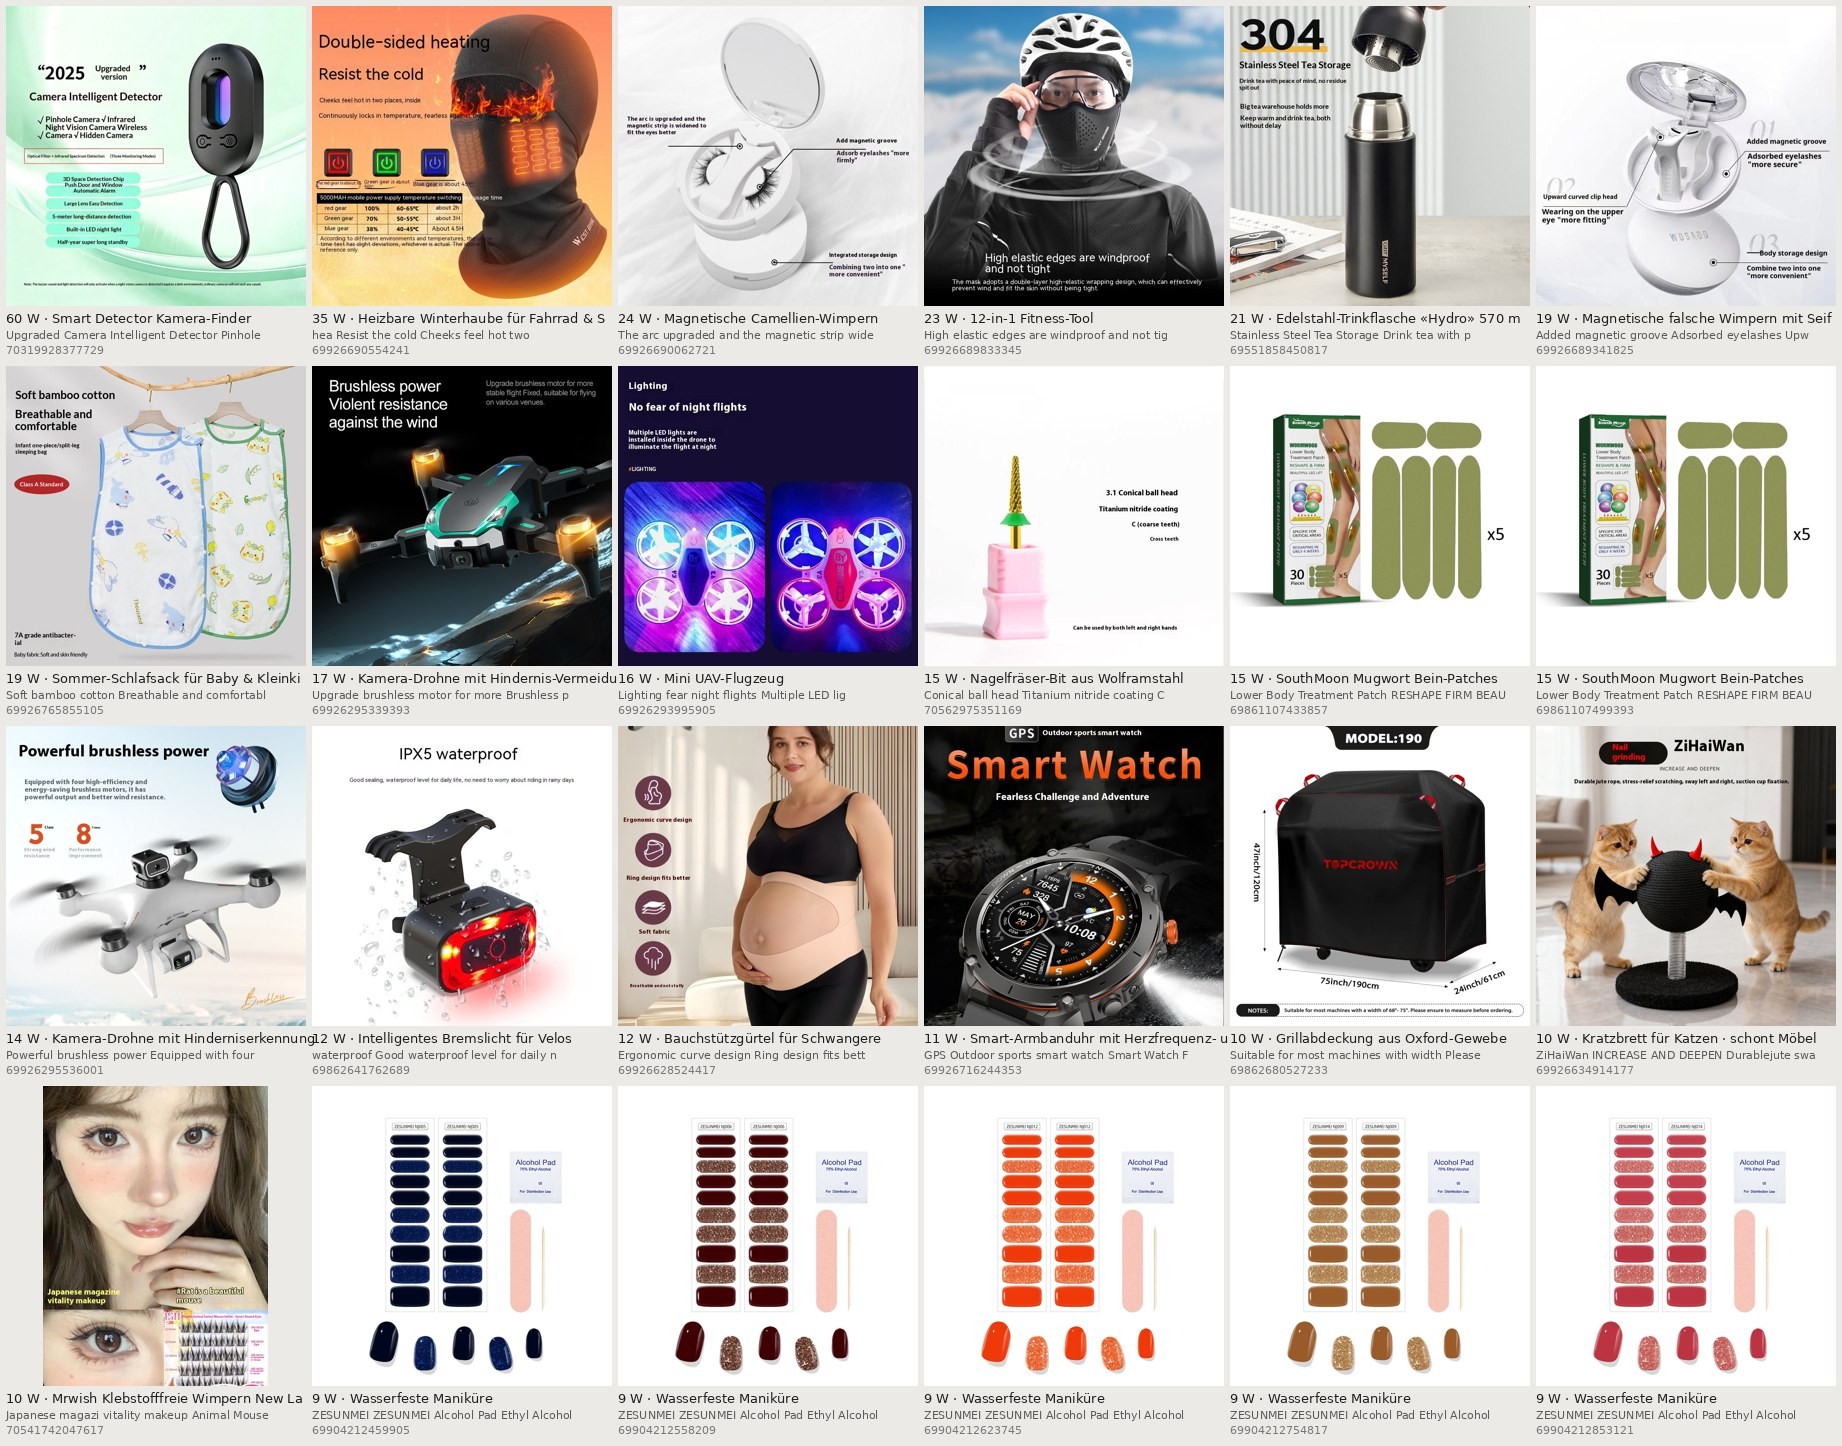
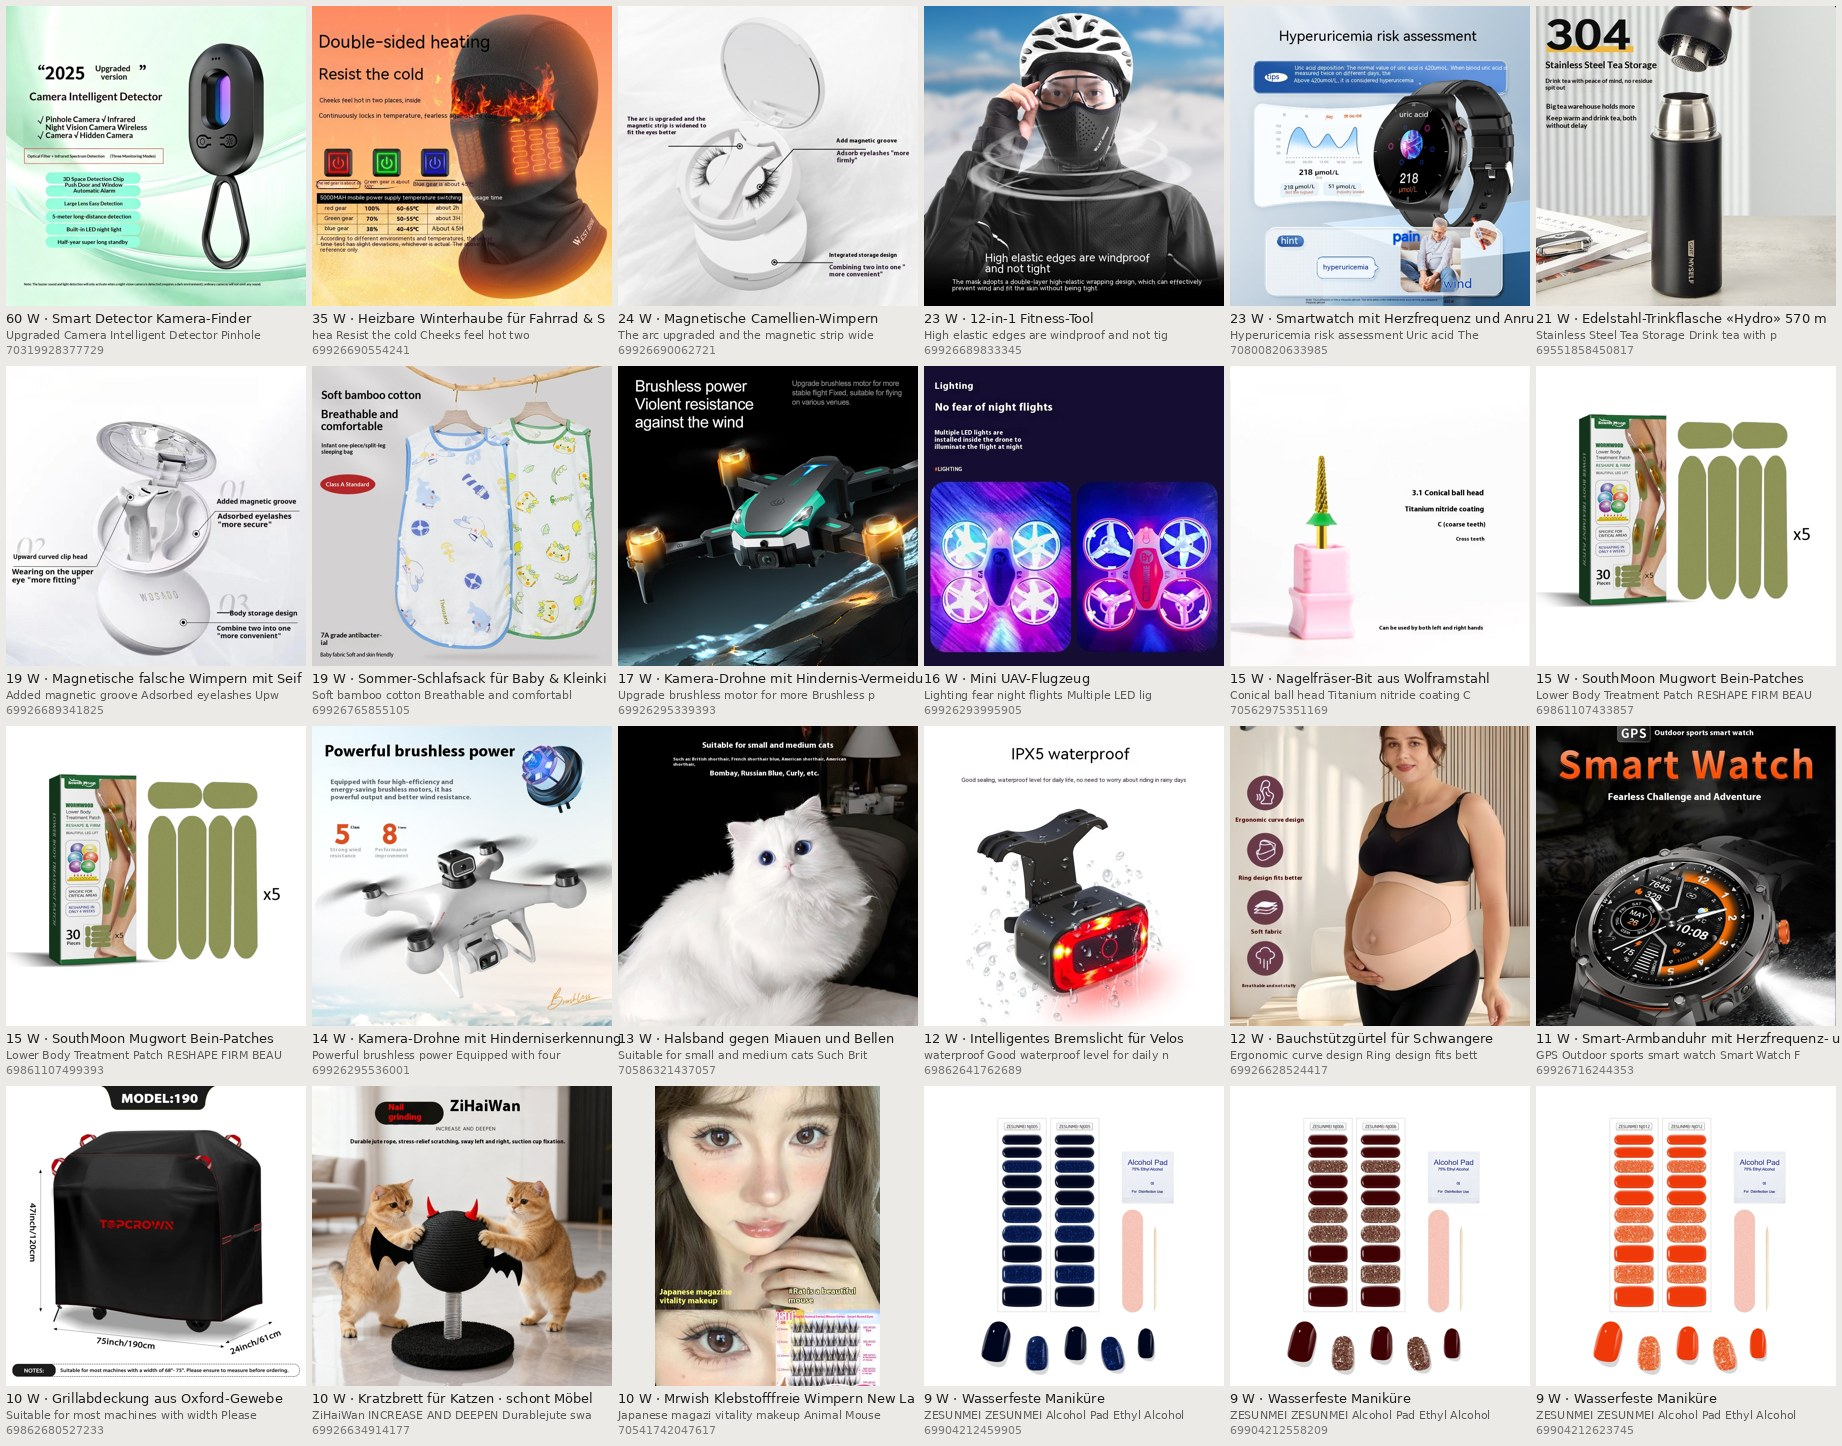
CJ-Ledger auto [skip ci]

diff --git a/dropship/BILD-WERBETEXT.md b/dropship/BILD-WERBETEXT.md
@@ -1,9 +1,9 @@
-# Bild-Werbetext in Nicht-Hauptbildern — Stand 2026-09-25T05:09:14Z
+# Bild-Werbetext in Nicht-Hauptbildern — Stand 2026-09-25T05:12:01Z
 
 Quelle: «+N»-Produkte aus `dropship/_cj_bild_backfill.txt` und (seit 24.09., QUELLE_ART=textbild) die August-Umsortierung `dropship/_textbild_hits.txt` — aktuell gewählt: nachfueller, 704 Produkte. Geprüft werden nur Bilder ab Position 2, nie das Hauptbild. Messgerät `bildtext_pruefen.woerter()`, Schwelle ≥ 4 sichere Wörter (Tesseract, Konfidenz ≥ 60, mind. 3 Buchstaben).
 
-- Medien geprüft: **2615** in 711 Produkten
-- Treffer (≥ 4 Wörter): **124** in 102 Produkten
+- Medien geprüft: **2622** in 711 Produkten
+- Treffer (≥ 4 Wörter): **129** in 107 Produkten
 - nicht lesbar (−1, wird beim nächsten Lauf erneut versucht): 0
 - entfernt (`_bild_werbetext_entfernt.txt`): **57**
 
@@ -21,6 +21,7 @@ Quelle: «+N»-Produkte aus `dropship/_cj_bild_backfill.txt` und (seit 24.09., Q
 | Magnetische Camellien-Wimpern `15453769761153` | [69926690062721](https://cdn.shopify.com/s/files/1/0943/6856/3585/files/686ded11-da93-44d1-89b2-a78890225659_trans.jpg) | 24 | The arc upgraded and the magnetic strip widened | offen |
 | 12-in-1 Fitness-Tool `15453769597313` | [69926689833345](https://cdn.shopify.com/s/files/1/0943/6856/3585/files/8a845c7d-c22a-4e42-8948-cc7028021594.jpg) | 23 | High elastic edges are windproof and not tight | offen |
 | Edelstahl-Trinkflasche «Hydro» 570 ml `15412899676545` | [69650083316097](https://cdn.shopify.com/s/files/1/0943/6856/3585/files/edelstahl-trinkflasche-hydro-570-ml-edit.jpg) | 23 | Stainless Steel Tea Storage Drink tea with peace | ENTFERNT |
+| Smartwatch mit Herzfrequenz und Anruffunktion `15524886774145` | [70800820633985](https://cdn.shopify.com/s/files/1/0943/6856/3585/files/1720366426231017472.jpg) | 23 | Hyperuricemia risk assessment Uric acid The normal value | offen |
 | Magnetische Sportbrille für Helm `15453768810881` | [69926688948609](https://cdn.shopify.com/s/files/1/0943/6856/3585/files/94d8c59c-9774-43ab-b99c-f851e81e0a74.jpg) | 22 | SAFE TRAVEL Thousands safety safe the critical moment | ENTFERNT |
 | Pinguin-Tuch zum Abwischen `15453791093121` | [69926763987329](https://cdn.shopify.com/s/files/1/0943/6856/3585/files/2591efa5-f7fd-4ddc-a6e2-fb67637ca6b7_trans.jpg) | 21 | Not easy shed hair Caring for the quality | ENTFERNT |
 | Faltbarer Joystick mit Display-Fernbedienung `15433464250753` | [69712351560065](https://cdn.shopify.com/s/files/1/0943/6856/3585/files/406f332f-0d28-4363-b23b-80bd80122925_fine.jpg) | 21 | Remote control with screen and foldable joystick disassembly | ENTFERNT |
@@ -50,6 +51,7 @@ Quelle: «+N»-Produkte aus `dropship/_cj_bild_backfill.txt` und (seit 24.09., Q
 | Öle für Duftdiffuser `15453771661697` | [69926697304449](https://cdn.shopify.com/s/files/1/0943/6856/3585/files/68ea0afb-6a45-4d84-8ebc-123850f919a2.jpg) | 13 | LAVENDER ESSENTIAL ESSENTIAL OIL THERAPEUTIC GRADE Essential oils | ENTFERNT |
 | In-Ear Gaming Headset mit Geräuschunterdrückung `15433463398785` | [69712350380417](https://cdn.shopify.com/s/files/1/0943/6856/3585/files/6bddeded-3685-4902-9816-b786891ec9e2_trans.jpg) | 13 | Gaming Bluetooth delay Dual Mode Cool Fantasy Breathing | ENTFERNT |
 | Luftstromladegerät `15500984058241` | [70551408705921](https://cdn.shopify.com/s/files/1/0943/6856/3585/files/3049674334524.jpg) | 13 | Pad Wireless Charging Board Adjustable Clamp Angle Adjust | ENTFERNT |
+| Halsband gegen Miauen und Bellen `15504149610881` | [70586321437057](https://cdn.shopify.com/s/files/1/0943/6856/3585/files/99c65a48-7625-41ed-9bc3-3a2907f98c3d_trans.jpg) | 13 | Suitable for small and medium cats Such British | offen |
 | Intelligentes Bremslicht für Velos `15448957976961` | [69862641762689](https://cdn.shopify.com/s/files/1/0943/6856/3585/files/c2fb4a32-5161-4001-9089-69587e78a7ab_trans.jpg) | 12 | waterproof Good waterproof level for daily need worry | offen |
 | Bauchstützgürtel für Schwangere `15453760717185` | [69926628524417](https://cdn.shopify.com/s/files/1/0943/6856/3585/files/9f9382e0-2080-4051-b7a5-441a700d8875_fine.jpg) | 12 | Ergonomic curve design Ring design fits better Soft | offen |
 | Smart-Armbanduhr mit Herzfrequenz- und Blutsauer `15453778411905` | [69926716244353](https://cdn.shopify.com/s/files/1/0943/6856/3585/files/7a7c63c5-36db-464a-a086-26ad34f0f8c8_trans.jpg) | 11 | GPS Outdoor sports smart watch Smart Watch Fearless | offen |
@@ -74,6 +76,8 @@ Quelle: «+N»-Produkte aus `dropship/_cj_bild_backfill.txt` und (seit 24.09., Q
 | Wasserfeste Maniküre `15452675244417` | [69904212623745](https://cdn.shopify.com/s/files/1/0943/6856/3585/files/874ce055-f6ed-48f3-9ff5-27ae00a1ed47.jpg) | 9 | ZESUNMEI ZESUNMEI Alcohol Pad Ethyl Alcohol For Disinfection | offen |
 | Wasserfeste Maniküre `15452675244417` | [69904212754817](https://cdn.shopify.com/s/files/1/0943/6856/3585/files/217f5f7e-0dfa-4a82-b9f3-9d2cf6c6572c.jpg) | 9 | ZESUNMEI ZESUNMEI Alcohol Pad Ethyl Alcohol For Disinfection | offen |
 | Wasserfeste Maniküre `15452675244417` | [69904212853121](https://cdn.shopify.com/s/files/1/0943/6856/3585/files/2caa2e48-c29a-4328-8ad9-a73a56493b1a.jpg) | 9 | ZESUNMEI ZESUNMEI Alcohol Pad Ethyl Alcohol For Disinfection | offen |
+| Kabelloser Glätt- und Lockenkamm `15503235940737` | [70574844903809](https://cdn.shopify.com/s/files/1/0943/6856/3585/files/4dcc5522-902b-40ed-b6e1-f55ffa99e59e_trans.jpg) | 9 | files Intelligent temperature control for different types hair | offen |
+| 21-Gitter Nagelschmuck-Box mit Glassteinen `15522212118913` | [70746582483329](https://cdn.shopify.com/s/files/1/0943/6856/3585/files/eba30eda-9b63-41f2-a8a5-2145ec15f0ad.jpg) | 9 | Violets Color Big stones Violets vitrail Samll stones | offen |
 | Yoga Stretch-Strap Set `15453792240001` | [69926765527425](https://cdn.shopify.com/s/files/1/0943/6856/3585/files/0eed1b67-3414-4379-8d18-33d83591584e.jpg) | 8 | Yoga stretch belt Meet various training force regulation | ENTFERNT |
 | Hindernisvermeidende Drohne für Luftaufnahmen `15453743481217` | [70519160209793](https://cdn.shopify.com/s/files/1/0943/6856/3585/files/803083b0-9b90-4b41-888d-fbf6bf4edf40.jpg) | 8 | Position Aid Optical flow Obstacle hovering Avoidance ULTRA | offen |
 | Elegantes Sommerkleid aus Baumwolle `15453768483201` | [69926688260481](https://cdn.shopify.com/s/files/1/0943/6856/3585/files/a178311c-f643-4dd1-a3cc-9ff55d1b9b63_trans.jpg) | 8 | Where deep bamboo woods and insects chirp Wind | offen |
@@ -100,6 +104,7 @@ Quelle: «+N»-Produkte aus `dropship/_cj_bild_backfill.txt` und (seit 24.09., Q
 | Wasserfeste Maniküre `15452675244417` | [69904212394369](https://cdn.shopify.com/s/files/1/0943/6856/3585/files/7611a66e-3e66-481b-b647-3cad8a3440c1.jpg) | 7 | Alcohol Pad Ethyl Alcohol For Disinfection Use | offen |
 | Wasserfeste Maniküre `15452675244417` | [69904212820353](https://cdn.shopify.com/s/files/1/0943/6856/3585/files/d16136c0-c77b-45c6-bd2c-307fd3cee636.jpg) | 7 | Alcohol Pad Ethyl Alcohol For Disinfection Use | offen |
 | Wasserfeste Maniküre `15452675244417` | [69904212885889](https://cdn.shopify.com/s/files/1/0943/6856/3585/files/6c2d356f-2e71-40ce-8bc8-68b7272deb4c.jpg) | 7 | Alcohol Pad Ethyl Alcohol For Disinfection Use | offen |
+| Mini-Powerbank für Apple Watch `15502661190017` | [70564236034433](https://cdn.shopify.com/s/files/1/0943/6856/3585/files/321670423961.jpg) | 7 | Over magnetic field protection Short circuit protection | offen |
 | Brotdose mit Deckel `15453785325953` | [69926750126465](https://cdn.shopify.com/s/files/1/0943/6856/3585/files/6fa32582-076e-4b80-843b-21fad0e3f076_trans.jpg) | 6 | toast box and models toast box | offen |
 | Faltbarer Quadrocopter mit Touch-Steuerung `15453743317377` | [69926292586881](https://cdn.shopify.com/s/files/1/0943/6856/3585/files/452b1a45-07be-42ee-a86d-1f502df24b52_trans.jpg) | 6 | perception and obstacle avoidance forward Pathfinder | offen |
 | Yoga-Matte für Studios und Workouts `15453762650497` | [69926633439617](https://cdn.shopify.com/s/files/1/0943/6856/3585/files/27505a5f-50fb-4818-b7f1-00d8510342f3_trans.jpg) | 6 | pain tion exe cise longer restricted | offen |
